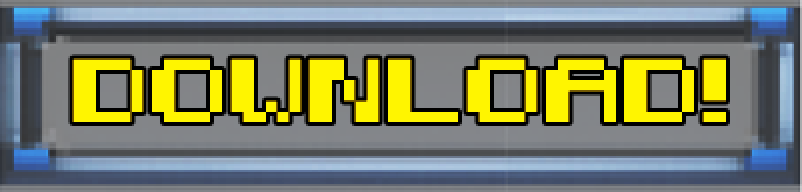
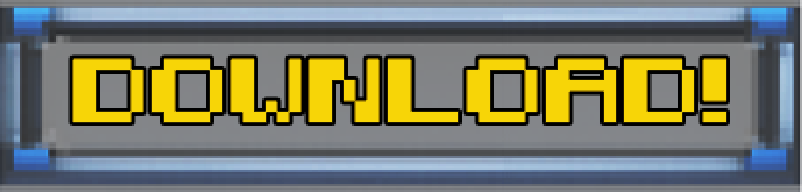
Update download button art

Changed region(s): [[0.0935, 0.2812, 0.904, 0.6562]]

diff --git a/index.html b/index.html
@@ -1175,7 +1175,7 @@
 
           <div id="downloadColumn">
             <button id="downloadBtn" type="button" aria-label="Download Codex Jr Updater">
-              <img src="assets/dl_button.png?v=1.2.0" alt="Download" draggable="false" />
+              <img src="assets/dl_button.png?v=1.2.9" alt="Download" draggable="false" />
             </button>
             <p id="downloadNote">
               CLICK ABOVE OR CHOOSE<br />
@@ -1225,7 +1225,7 @@
 
   <footer id="siteFooter" aria-label="Site footer">
     <div id="footerInner">
-      <div id="footerVersion">codex jr beta site v1.2.8</div>
+      <div id="footerVersion">codex jr beta site v1.2.9</div>
       <a
         id="footerInstagram"
         href="https://www.instagram.com/getcodexjr"